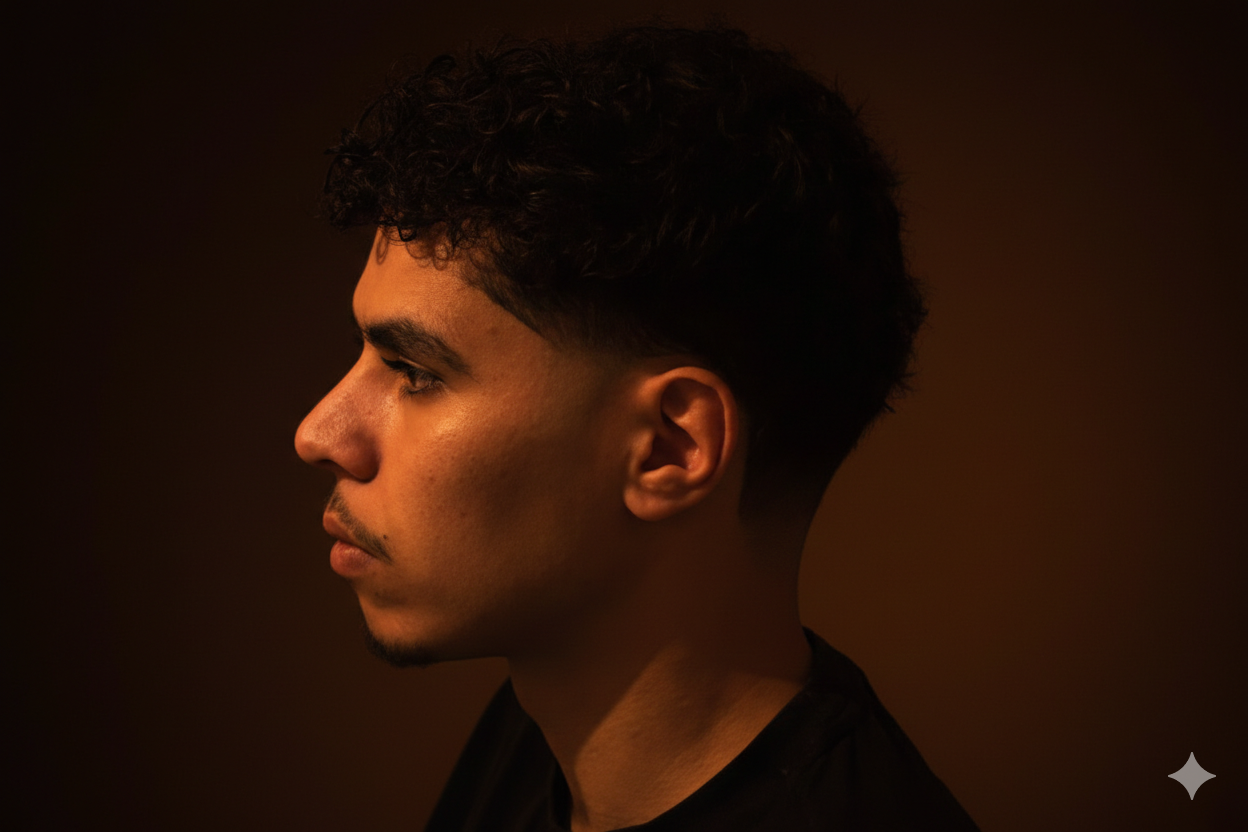
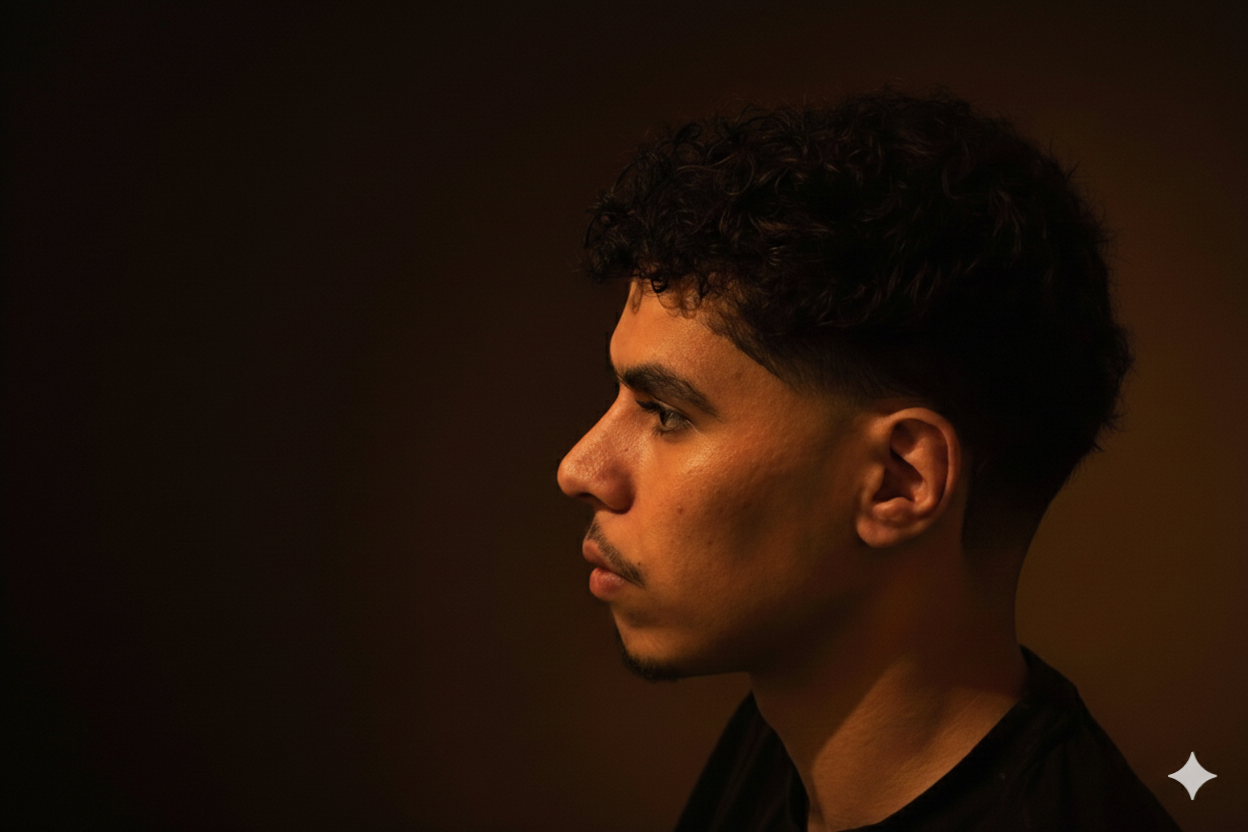
2/6/26

diff --git a/app/globals.css b/app/globals.css
@@ -119,21 +119,24 @@
   * {
     @apply border-border outline-ring/50;
   }
+
   body {
     @apply bg-foreground text-background font-sans;
   }
 }
 
 ::-webkit-scrollbar {
-    display: none;
+  display: none;
 }
 
 * {
-    scrollbar-width: none; /* Firefox */
-    -ms-overflow-style: none;  /* Internet Explorer 10+ */
-    -webkit-tap-highlight-color: transparent;
-    -webkit-font-smoothing: antialiased;
-    user-select: none;
+  scrollbar-width: none;
+  /* Firefox */
+  -ms-overflow-style: none;
+  /* Internet Explorer 10+ */
+  -webkit-tap-highlight-color: transparent;
+  -webkit-font-smoothing: antialiased;
+  user-select: none;
 }
 
 html {
@@ -150,6 +153,7 @@ html {
   0% {
     transform: translateX(0);
   }
+
   100% {
     transform: translateX(-50%);
   }
@@ -163,6 +167,7 @@ html {
   0% {
     opacity: 0;
   }
+
   100% {
     opacity: 1;
   }
@@ -177,6 +182,7 @@ html {
     opacity: 0;
     transform: translateY(20px);
   }
+
   100% {
     opacity: 1;
     transform: translateY(0);
@@ -192,6 +198,7 @@ html {
     opacity: 0;
     transform: translateY(-20px);
   }
+
   100% {
     opacity: 1;
     transform: translateY(0);
@@ -208,26 +215,25 @@ html {
 
 @layer utilities {
   .clip-path-hero {
-    clip-path: polygon(
-      4rem 0px,
-      calc(50% - 15rem) 0px,
-      calc(50% - 13.5rem) 2.75rem,
-      calc(50% + 13.5rem) 2.75rem,
-      calc(50% + 15rem) 0px,
-      calc(100% - 4rem) 0px,
-      100% 4rem,
-      100% calc(100% - 4rem),
-      calc(100% - 4rem) 100%,
-      4rem 100%,
-      0px calc(100% - 4rem),
-      0px 4rem
-    );
+    clip-path: polygon(4rem 0px,
+        calc(50% - 15rem) 0px,
+        calc(50% - 13.5rem) 2.75rem,
+        calc(50% + 13.5rem) 2.75rem,
+        calc(50% + 15rem) 0px,
+        calc(100% - 4rem) 0px,
+        100% 4rem,
+        100% calc(100% - 4rem),
+        calc(100% - 4rem) 100%,
+        4rem 100%,
+        0px calc(100% - 4rem),
+        0px 4rem);
   }
 }
 
 .font-sans {
   font-family: var(--font-geist-sans), sans-serif;
 }
+
 .font-mono {
   font-family: var(--font-geist-mono), monospace;
 }

diff --git a/components/section/Hero.tsx b/components/section/Hero.tsx
@@ -31,9 +31,9 @@ function Hero() {
         <div className="absolute inset-0 overflow-hidden">
           <Image
             alt="saad-eddine el oddy background"
-            src="/saad3.png"
+            src="/saad.png"
             fill
-            className="object-cover object-[50%_20%] md:object-[60%_30%] lg:object-[55%_25%] scale-100"
+            className="object-cover object-[50%_0%] md:object-[60%_15%] lg:object-[55%_10%] scale-100"
             priority
             quality={85}
             sizes="100vw"
@@ -99,7 +99,7 @@ function Hero() {
               {/* Title and Content */}
               <div className="w-full lg:max-w-2xl">
                 <h1 className="text-[clamp(2.5rem,8vw,5rem)] font-bold uppercase leading-[1.1] tracking-tighter text-neutral-50 animate-slideUp">
-                  Full Stack & Systems Engineer
+                  Full Stack Developer
                 </h1>
 
                 {/* Description */}

diff --git a/components/Navigation.tsx b/components/Navigation.tsx
@@ -131,7 +131,7 @@ function Navigation() {
             {/* Avatar */}
             <div className="h-15 w-15 rounded-lg bg-transparent overflow-hidden relative shrink-0">
               <Image
-                src="/saad3.png"
+                src="/saad.png"
                 alt="Saad Eddine El oddy profile picture"
                 fill
                 sizes="60px"
